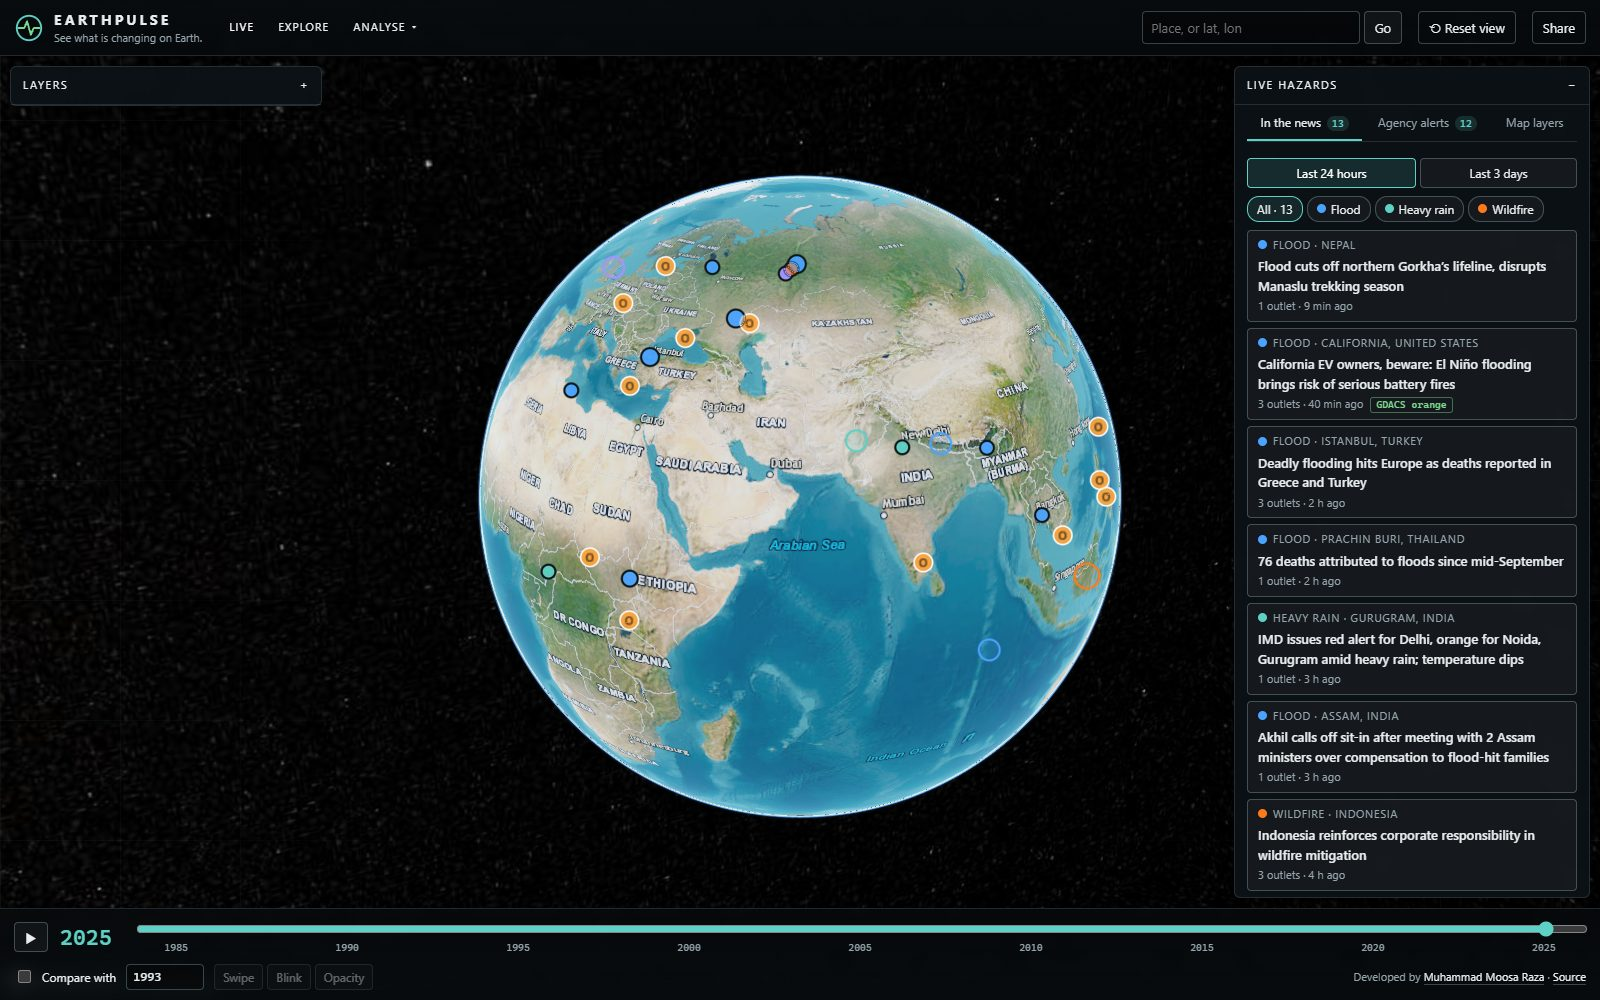
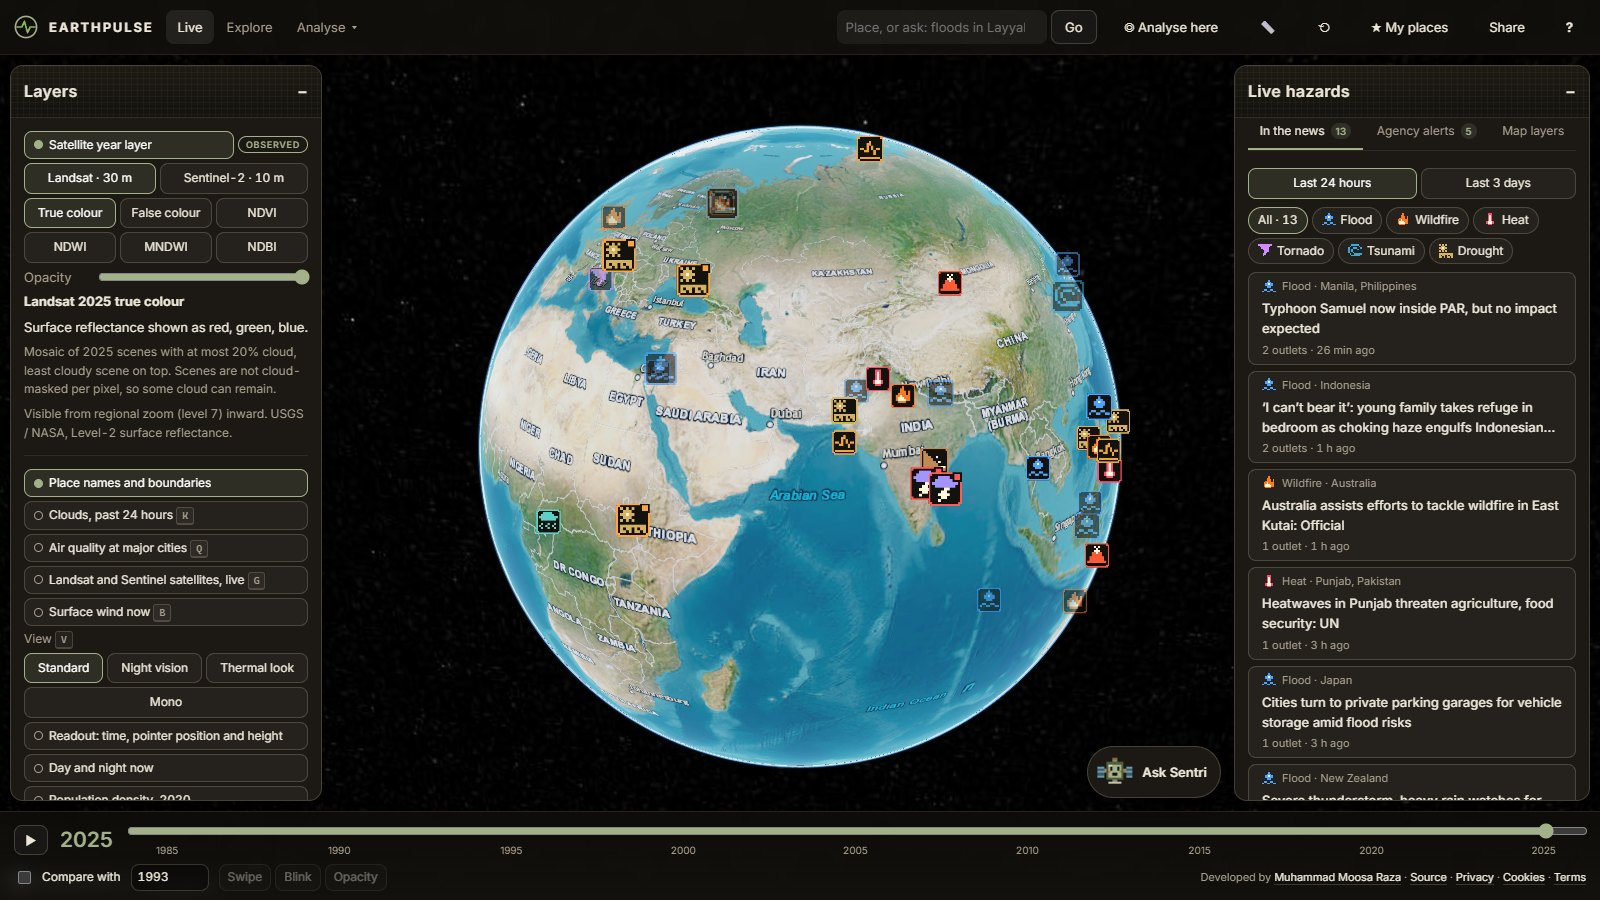
README: fresh screenshots of the live site (pixel markers, Sentri with a carbon chart, area overview, news story, swipe)

diff --git a/README.md b/README.md
@@ -15,7 +15,7 @@ If EarthPulse is useful to you, a ⭐ helps other researchers find it.
 [![License: MIT](https://img.shields.io/badge/license-MIT-5fd0c5.svg)](LICENSE)
 [![Release](https://img.shields.io/github/v/release/moosarazauaf/earthpulse?include_prereleases&color=7bd88f)](https://github.com/moosarazauaf/earthpulse/releases)
 
-<img src="docs/media/news.jpg" alt="EarthPulse Live view: natural-hazard stories from the past 24 hours of news as coloured markers on a 3D globe, with headlines, outlets and agency matches in a side panel" width="100%">
+<img src="docs/media/news.jpg" alt="EarthPulse Live view: natural-hazard stories, earthquakes and disaster alerts from the past 24 hours as pixel-art badges on a 3D globe, with the Layers panel on the left and headlines filtered by hazard on the right" width="100%">
 
 </div>
 
@@ -74,6 +74,8 @@ in your browser for a missing orbit filter, `.mosaic()` and long composites,
 a mean over the flood period, a logarithm on data already in dB, and missing
 speckle filtering or before-after comparison.
 
+<img src="docs/media/sentri.jpg" alt="Sentri, the pixel-art satellite assistant, answering 'Carbon stock of Layyah, Pakistan' beside the globe: 24,911 t of carbon in plants (plus or minus 4,118 t) and 200,103 t in the top 30 cm of soil, with a bar chart and error bars that saves as SVG or 300 dpi PNG" width="100%">
+
 ### 🌱 Carbon stock and land cover
 For any area: **carbon in plants** (above and below ground, Harmonized Global
 Biomass) and **in the top 30 cm of soil** (SoilGrids 2.0), each with its
@@ -125,7 +127,7 @@ steep ground, the conditions in which landslides happen, and today's air
 quality (US AQI, PM2.5, PM10, NO₂, ozone) with how many of the past seven days
 were above the WHO PM2.5 guideline.
 
-<img src="docs/media/area.jpg" alt="Analyse here: a 5 km square around a spot in Lahore outlined on the globe, with the area overview listing seven one-click analyses, each with its defaults and how long it takes" width="100%">
+<img src="docs/media/area.jpg" alt="Area overview of central Lahore, opened by asking Sentri: a 10 km square outlined on Sentinel-2 imagery, with one-click analyses listed in the side panel, each with its defaults and how long it takes" width="100%">
 
 ### ☁ Clouds, rain and air on the globe
 Three switches in the Layers panel, each with a key. **Clouds** (<kbd>K</kbd>)
@@ -168,7 +170,7 @@ any year from 1991 to 2020"*. One click then proposes the satellite analysis
 that can test the story: flood water from radar, a burn scar, or landslide
 scars.
 
-<img src="docs/media/news-story.jpg" alt="A news story about flash flooding in Oklahoma City, with the outlet's headline, a chart of daily rain for the 30 days before, and the finding that 54 mm in 3 days was wetter than any year from 1991 to 2020" width="100%">
+<img src="docs/media/news-story.jpg" alt="A news story about flooding in Manila, Philippines, opened on the globe: its pixel flood badge labelled on the map, and every outlet's headline with source and age in the side panel" width="100%">
 
 ### 🛰 Compare any two years since 1984
 Annual Landsat and Sentinel-2 layers in true colour, false colour and four
